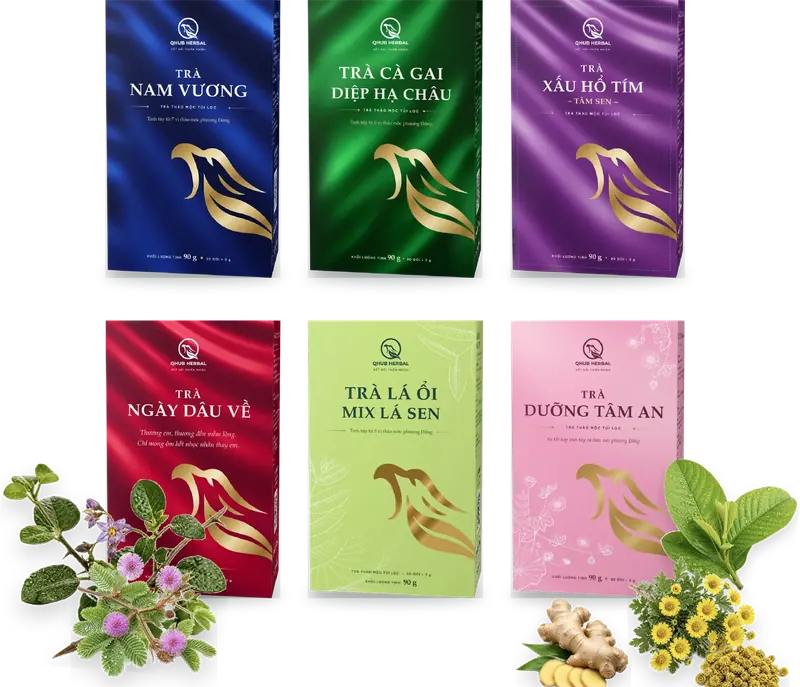
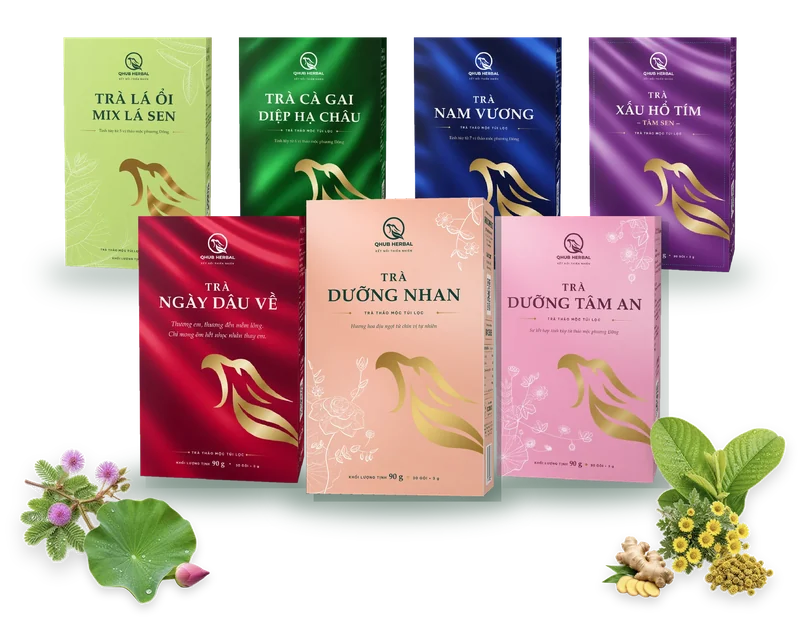
QHUB HERBAL: ảnh đầu trang chủ mới 7 hộp (bố cục 2 hàng, Trà Dưỡng Nhan ở giữa), tools/hero.py; ảnh chia sẻ chính dùng ảnh 7 hộp; hero ?v=7
Claude-Session: https://claude.ai/code/session_01KZZMWoAFcpzHigQApHGCjj

diff --git a/_qhubherbal/templates/base.html b/_qhubherbal/templates/base.html
@@ -31,7 +31,7 @@ else if((m=h.match(/\/san-pham\/([\w-]+)\/?$/)))gtag('event','select_item',{item
 <link rel="apple-touch-icon" href="/apple-touch-icon.png">
 <link rel="preconnect" href="{{ site.media }}" crossorigin>
 <link rel="preconnect" href="{{ site.media_img }}">
-{% if path == '/' %}<link rel="preload" as="image" href="/assets/img/hero-organic-800.webp" imagesrcset="/assets/img/hero-organic-480.webp 480w, /assets/img/hero-organic-800.webp 800w, /assets/img/hero-organic-1200.webp 1200w, /assets/img/hero-organic.webp 1500w" imagesizes="(max-width: 900px) 92vw, 640px" fetchpriority="high">{% endif %}
+{% if path == '/' %}<link rel="preload" as="image" href="/assets/img/hero-organic-800.webp?v=7" imagesrcset="/assets/img/hero-organic-480.webp?v=7 480w, /assets/img/hero-organic-800.webp?v=7 800w, /assets/img/hero-organic-1200.webp?v=7 1200w, /assets/img/hero-organic.webp?v=7 1500w" imagesizes="(max-width: 900px) 92vw, 640px" fetchpriority="high">{% endif %}
 <link rel="preload" href="/assets/fonts/be-vietnam-pro-vietnamese-400-normal.woff2" as="font" type="font/woff2" crossorigin>
 <link rel="preload" href="/assets/fonts/be-vietnam-pro-latin-700-normal.woff2" as="font" type="font/woff2" crossorigin>
 <link rel="stylesheet" href="/assets/css/site.css?v={{ version }}">

diff --git a/_qhubherbal/templates/index.html b/_qhubherbal/templates/index.html
@@ -34,7 +34,7 @@
       </ul>
     </div>
     <div class="hero__art">
-      <img class="hero__img" src="/assets/img/hero-organic-800.webp" srcset="/assets/img/hero-organic-480.webp 480w, /assets/img/hero-organic-800.webp 800w, /assets/img/hero-organic-1200.webp 1200w, /assets/img/hero-organic.webp 1500w" sizes="(max-width: 900px) 92vw, 640px" alt="Bộ 6 hộp trà thảo mộc túi lọc QHUB HERBAL bên cành cà gai leo, xấu hổ, hoa cúc, gừng và lá ổi" width="1500" height="1289" fetchpriority="high">
+      <img class="hero__img" src="/assets/img/hero-organic-800.webp?v=7" srcset="/assets/img/hero-organic-480.webp?v=7 480w, /assets/img/hero-organic-800.webp?v=7 800w, /assets/img/hero-organic-1200.webp?v=7 1200w, /assets/img/hero-organic.webp?v=7 1500w" sizes="(max-width: 900px) 92vw, 640px" alt="Bộ {{ products|length }} hộp trà thảo mộc túi lọc QHUB HERBAL, Trà Dưỡng Nhan mới ở giữa, bên cành xấu hổ, lá sen, lá ổi, hoa cúc và gừng" width="1500" height="1160" fetchpriority="high">
     </div>
   </div>
   <ul class="wrap trustbar" aria-label="Điểm nổi bật">

diff --git a/_qhubherbal/css/main.css b/_qhubherbal/css/main.css
@@ -1170,3 +1170,5 @@ main,.ftr{position:relative;z-index:0}
 }
 /* lịch một ngày: mục lẻ cuối nằm giữa hàng */
 @media (min-width:901px){.day>.day__item:last-child:nth-child(3n+1){grid-column:2}}
+/* hero 7 hộp (ảnh thấp hơn bản 6 hộp): canh lên đầu cột trên màn hình rộng */
+@media (min-width:901px){.hero__art{align-self:start;margin-top:64px}}

diff --git a/_qhubherbal/tools/hero.py b/_qhubherbal/tools/hero.py
@@ -1,0 +1,91 @@
+"""Dựng ảnh đầu trang chủ (hero-organic*.webp) từ ảnh hộp các sản phẩm.
+
+Bố cục kim tự tháp 2 hàng: hàng sau 4 hộp (tông lạnh), hàng trước 3 hộp (tông ấm),
+sản phẩm mới (is_new) đứng giữa hàng trước, lớn nhất; thảo mộc ở hai góc dưới.
+Chạy: python3 tools/hero.py  (từ thư mục _qhubherbal)
+"""
+import os, sys
+from PIL import Image, ImageFilter, ImageDraw
+sys.path.insert(0, os.getcwd())
+import data
+
+P = 'site/assets/img/products/'
+D = 'tools/decor/'
+OUT = 'site/assets/img/'
+W, H = 1500, 1160
+
+BACK = ['la-oi-mix-la-sen', 'ca-gai-diep-ha-chau', 'nam-vuong', 'xau-ho-tim-tam-sen']
+new = [p['slug'] for p in data.PRODUCTS if p.get('is_new')]
+center = new[0] if new else 'duong-tam-an'
+FRONT = ['ngay-dau-ve', center, 'duong-tam-an'] if center != 'duong-tam-an' else ['ngay-dau-ve', center, 'la-oi-mix-la-sen']
+
+
+def box(slug, h):
+    im = Image.open(P + slug + '.webp').convert('RGBA')
+    im = im.crop(im.getbbox())
+    # cắt bỏ phần mờ (bóng) dưới đáy nếu có: giữ vùng alpha đậm
+    a = im.getchannel('A').point(lambda v: 255 if v > 200 else 0)
+    im = im.crop(a.getbbox())
+    return im.resize((round(im.width * h / im.height), h), Image.LANCZOS)
+
+
+def shadow(canvas, cx, bottom, w, strength=110):
+    sh = Image.new('L', (W, H), 0)
+    d = ImageDraw.Draw(sh)
+    d.ellipse((cx - w * 0.62, bottom - 26, cx + w * 0.62, bottom + 30), fill=strength)
+    sh = sh.filter(ImageFilter.GaussianBlur(22))
+    layer = Image.new('RGBA', (W, H), (24, 60, 42, 0))
+    layer.putalpha(sh)
+    canvas.alpha_composite(layer)
+
+
+def side_shadow(canvas, im, x, y, strength=70):
+    """bóng mềm in lên hộp phía sau (tạo chiều sâu)"""
+    a = im.getchannel('A').filter(ImageFilter.GaussianBlur(18)).point(lambda v: v * strength // 255)
+    layer = Image.new('RGBA', im.size, (20, 50, 35, 0)); layer.putalpha(a)
+    canvas.alpha_composite(layer, (x + 14, y + 10))
+
+
+def decor(name, h, flip=False, rot=0):
+    im = Image.open(D + name + '.webp').convert('RGBA')
+    if flip: im = im.transpose(Image.FLIP_LEFT_RIGHT)
+    if rot: im = im.rotate(rot, expand=True, resample=Image.BICUBIC)
+    im = im.crop(im.getbbox())
+    return im.resize((round(im.width * h / im.height), h), Image.LANCZOS)
+
+
+def main():
+    cv = Image.new('RGBA', (W, H), (0, 0, 0, 0))
+    # hàng sau: 4 hộp, chừa trọn tên hộp
+    hb = 440; top_b = 70
+    xs_b = [258, 586, 914, 1242]
+    for slug, cx in zip(BACK, xs_b):
+        im = box(slug, hb)
+        shadow(cv, cx, top_b + hb, im.width, 80)
+        x = cx - im.width // 2
+        cv.alpha_composite(im, (x, top_b))
+    # hàng trước: 2 hộp bên rồi hộp giữa (sản phẩm mới) vẽ sau cùng để nổi lên trên
+    order = [(FRONT[0], 416), (FRONT[2], 1084), (FRONT[1], 750)]
+    for slug, cx in order:
+        hf = 560 if slug == center else 500
+        bottom = 930 if slug == center else 905
+        im = box(slug, hf)
+        shadow(cv, cx, bottom, im.width, 140)
+        x = cx - im.width // 2; y = bottom - hf
+        side_shadow(cv, im, x, y, 60 if slug != center else 90)
+        cv.alpha_composite(im, (x, y))
+    # thảo mộc hai góc dưới (vẽ sau cùng, đè chân hộp)
+    L1 = decor('mimosa', 270); cv.alpha_composite(L1, (10, H - L1.height - 60))
+    L2 = decor('lotus', 230, flip=True); cv.alpha_composite(L2, (140, H - L2.height - 4))
+    R1 = decor('guava', 270, flip=True); cv.alpha_composite(R1, (W - R1.width - 4, H - R1.height - 120))
+    R2 = decor('cuc', 240); cv.alpha_composite(R2, (W - R2.width - 30, H - R2.height - 10))
+    R3 = decor('gung', 150); cv.alpha_composite(R3, (W - R2.width - R3.width + 40, H - R3.height - 12))
+    bb = cv.getbbox(); print('bbox', bb)
+    cv.save(OUT + 'hero-organic.webp', quality=88, method=6)
+    for w in (1200, 800, 480):
+        cv.resize((w, round(H * w / W)), Image.LANCZOS).save(OUT + f'hero-organic-{w}.webp', quality=86, method=6)
+    prev = Image.new('RGB', (W, H), (244, 248, 242)); prev.paste(cv, (0, 0), cv)
+    prev.thumbnail((900, 900)); prev.save('/tmp/hero_new.png')
+
+
+main()

diff --git a/_qhubherbal/tools/og.py b/_qhubherbal/tools/og.py
@@ -27,7 +27,7 @@ def pricebox(d,x,y):
 def shadow(im,x,y,w,h):
     s=Image.new('RGBA',im.size,(0,0,0,0)); ImageDraw.Draw(s).ellipse([x+20,y+h-16,x+w-20,y+h+20],fill=(31,77,58,70)); im.alpha_composite(s.filter(ImageFilter.GaussianBlur(16)))
 im,d=base()
-hero=Image.open(O+'hero.webp').convert('RGBA'); hero.thumbnail((470,470)); hx,hy=1200-hero.width-60,(630-hero.height)//2+10
+hero=Image.open(O+'hero-organic.webp').convert('RGBA'); hero=hero.crop(hero.getbbox()); hero.thumbnail((500,470)); hx,hy=1200-hero.width-36,(630-hero.height)//2+10
 shadow(im,hx,hy,hero.width,hero.height); im.alpha_composite(hero,(hx,hy)); d=ImageDraw.Draw(im)
 d.text((64,186),'Chăm sóc từ bên trong,',font=F(700,48),fill=FOREST)
 d.text((64,244),'bằng tinh túy thảo mộc.',font=F(700,48),fill=LEAF)
